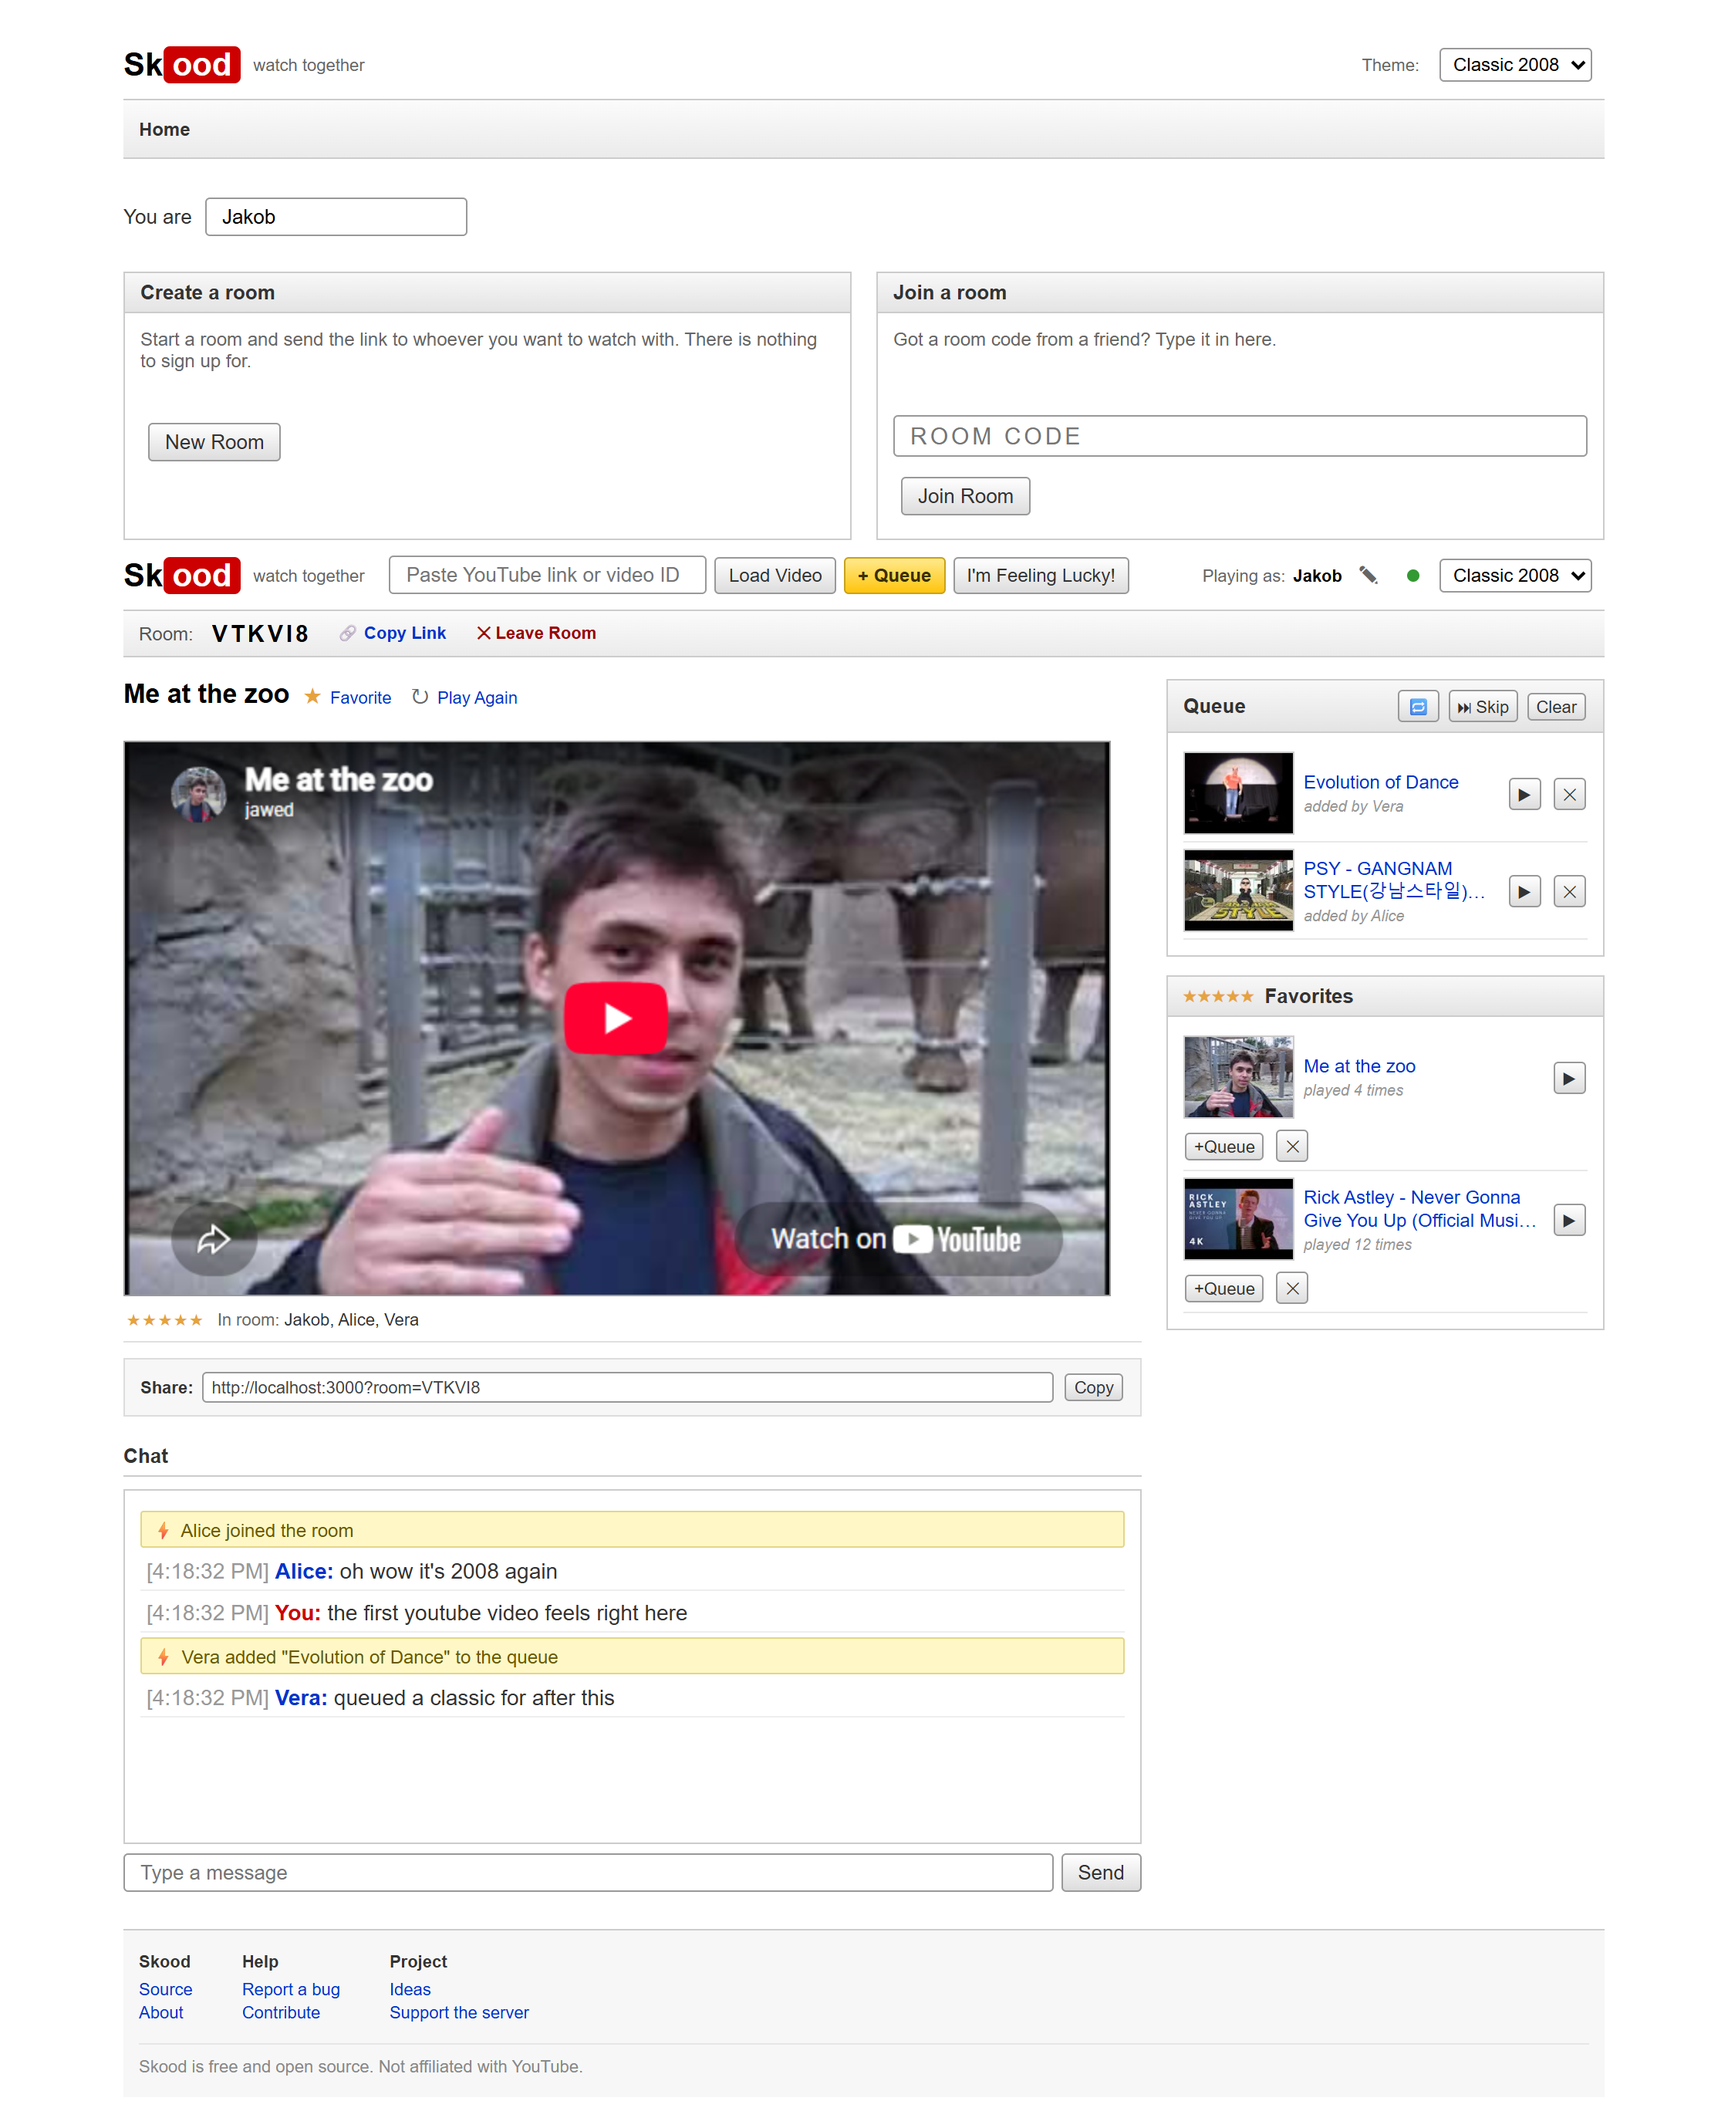
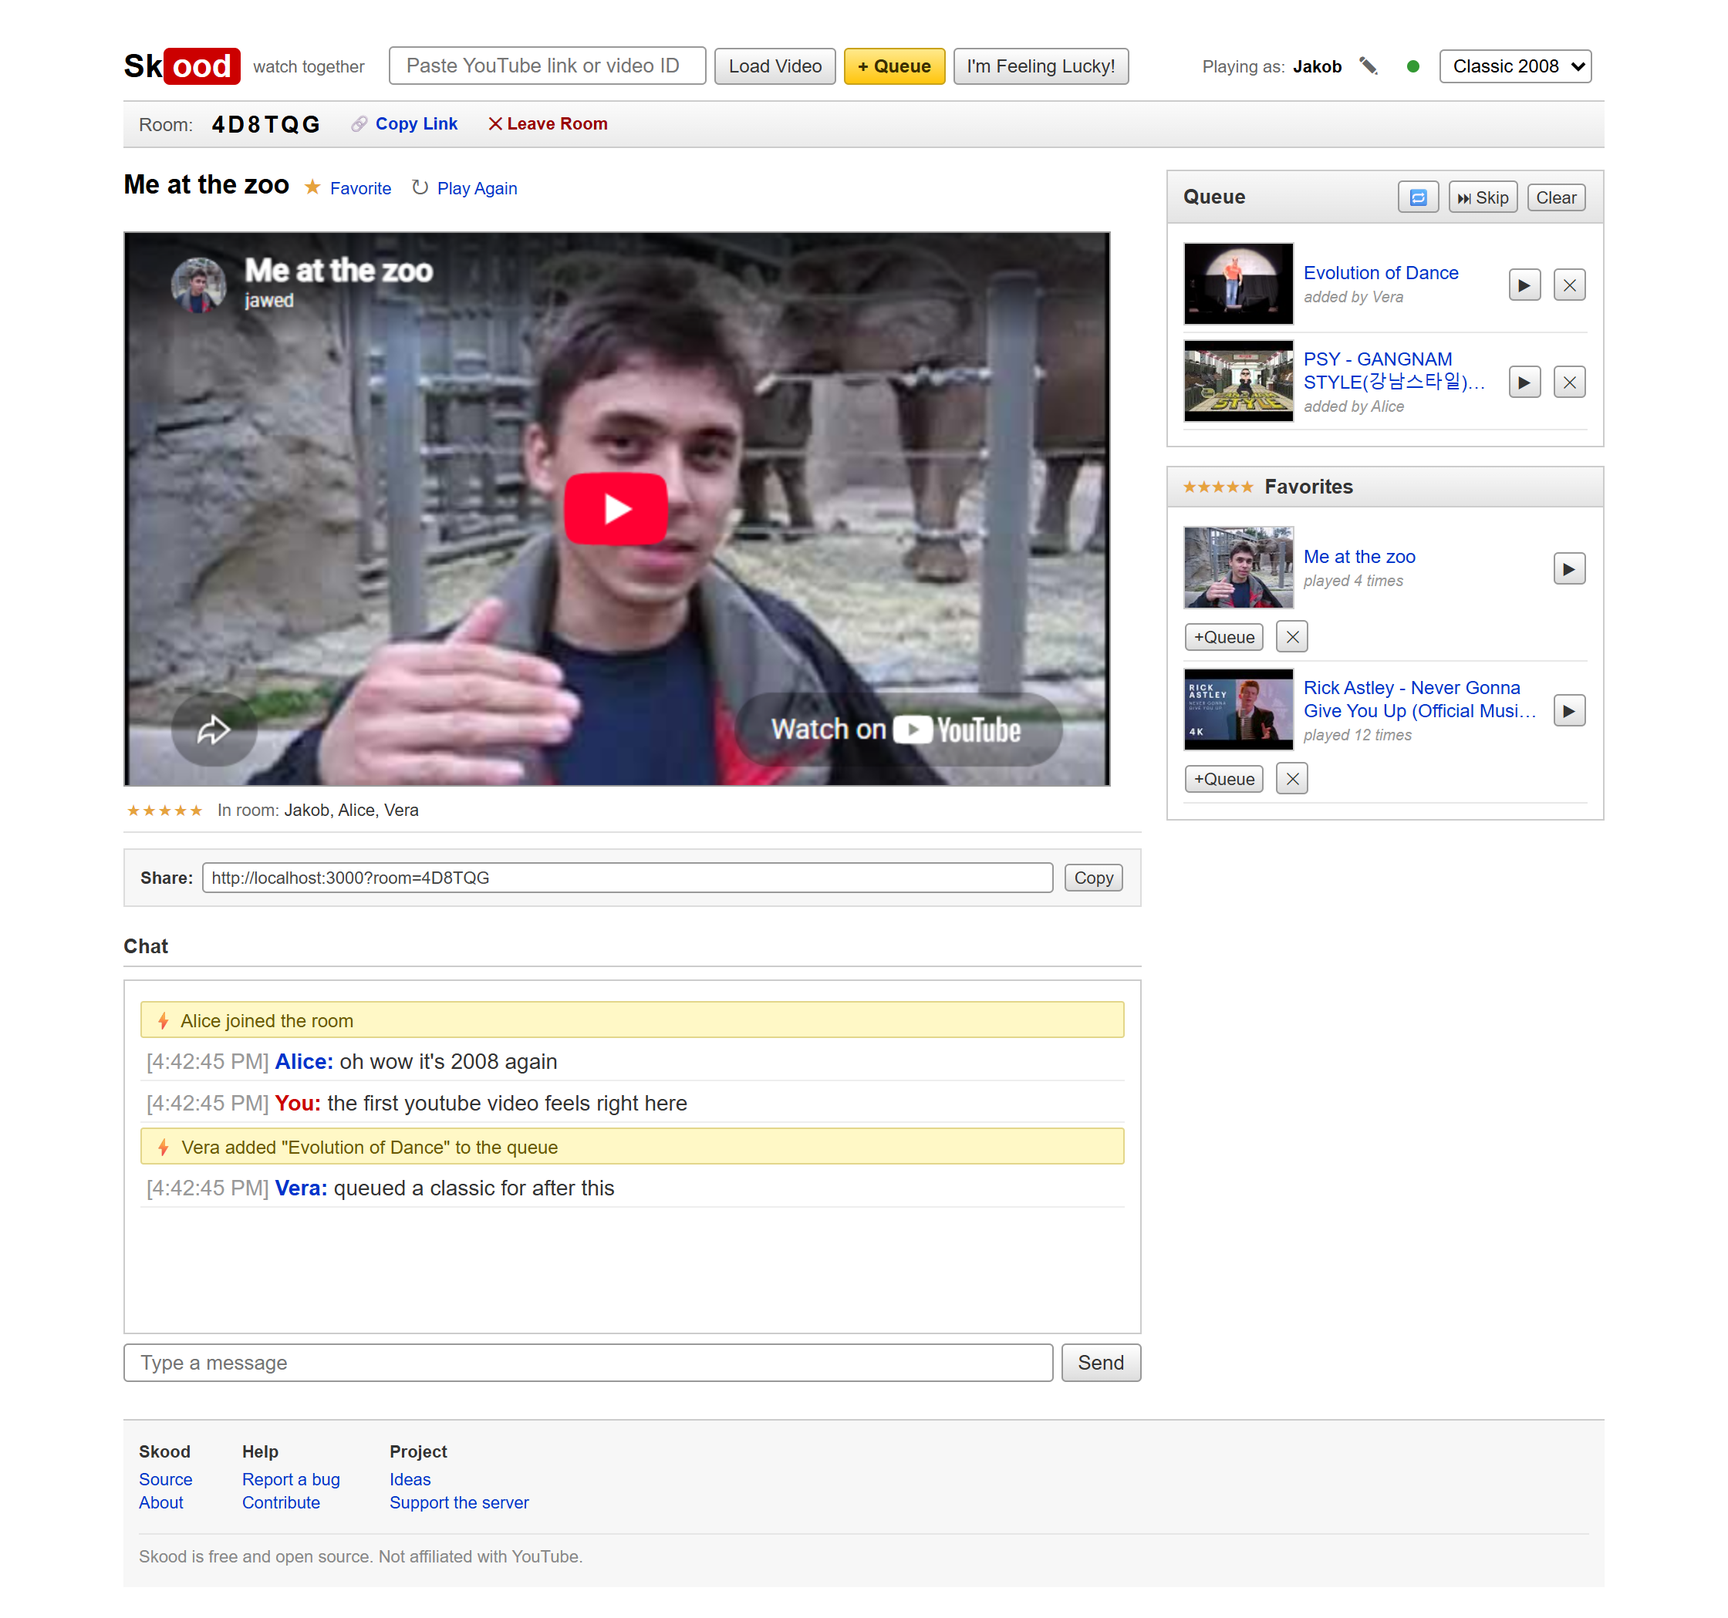
Fix the lobby staying on screen behind the room
The Classic 2008 lobby layout was written as `html[data-theme] #lobby`,
which out-specifies `#lobby.hidden` further up the file, so adding the
hidden class had no effect and the lobby sat stacked above the room.
Scoping the rule to `#lobby:not(.hidden)` means it stops applying the
moment the class lands, which is how the room grid already worked
through `.active`.

diff --git a/public/style.css b/public/style.css
@@ -830,7 +830,10 @@ html[data-theme="yt2008"] #panels { grid-area: side; align-self: start; }
 html[data-theme="yt2008"] #app .retro-divider { display: none; }
 
 /* ---- Lobby: same masthead and nav strip, then a two-module split ---- */
-html[data-theme="yt2008"] #lobby {
+/* Scoped to :not(.hidden) on purpose. A bare `#lobby` here would outrank
+   `#lobby.hidden` further up the file and keep the lobby on screen behind
+   the room. The room grid is scoped to .active for the same reason. */
+html[data-theme="yt2008"] #lobby:not(.hidden) {
   display: grid;
   grid-template-columns: minmax(0, 1fr) auto;
   grid-template-areas:
@@ -1222,7 +1225,7 @@ html[data-theme="midnight"] .sys-message {
       "chat"
       "chatfm";
   }
-  html[data-theme="yt2008"] #lobby {
+  html[data-theme="yt2008"] #lobby:not(.hidden) {
     grid-template-columns: minmax(0, 1fr);
     grid-template-areas: "logo" "bar" "nav" "box";
   }
